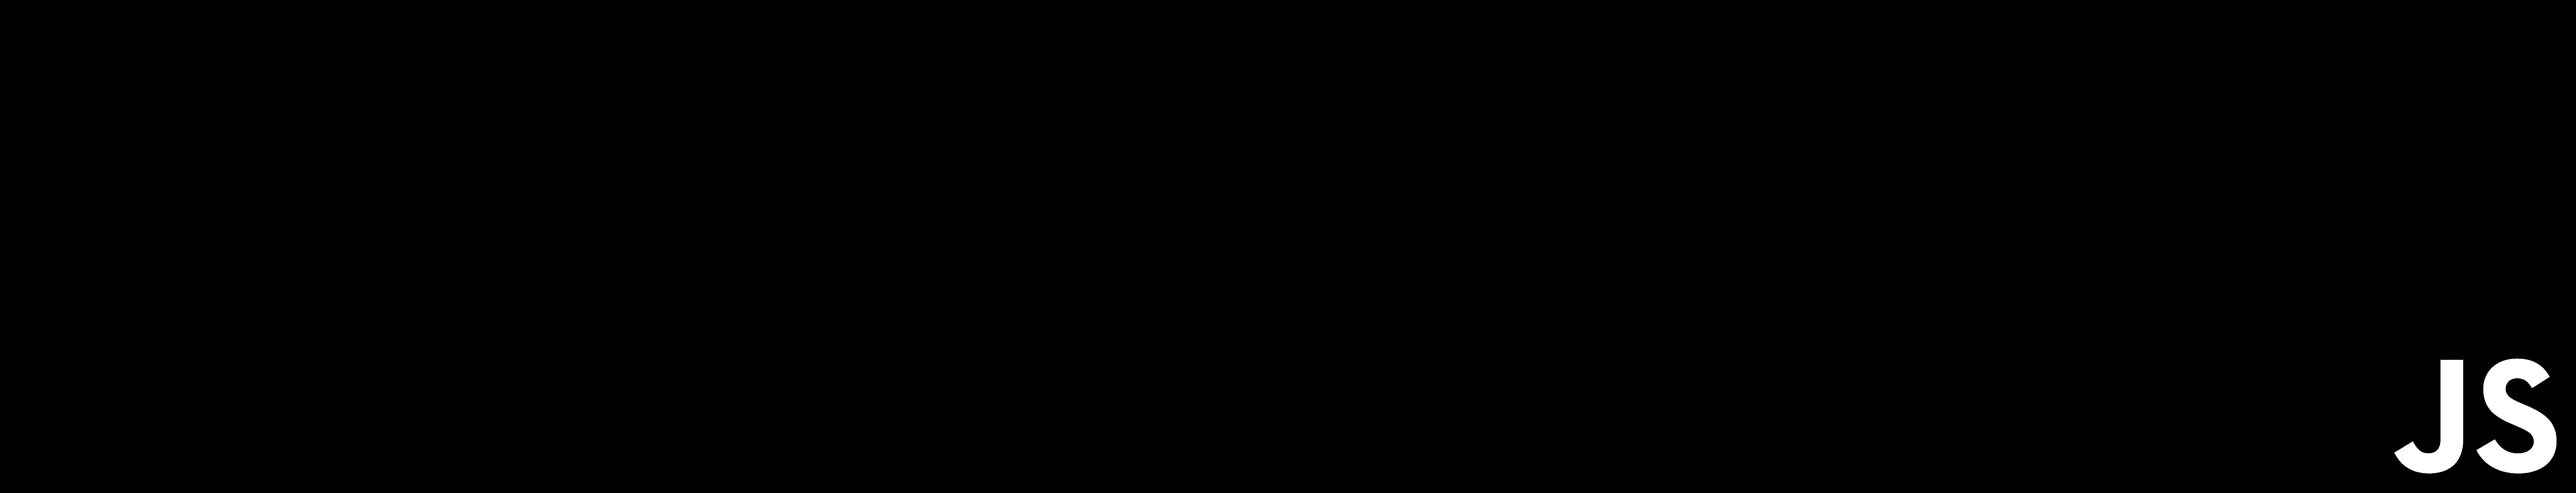
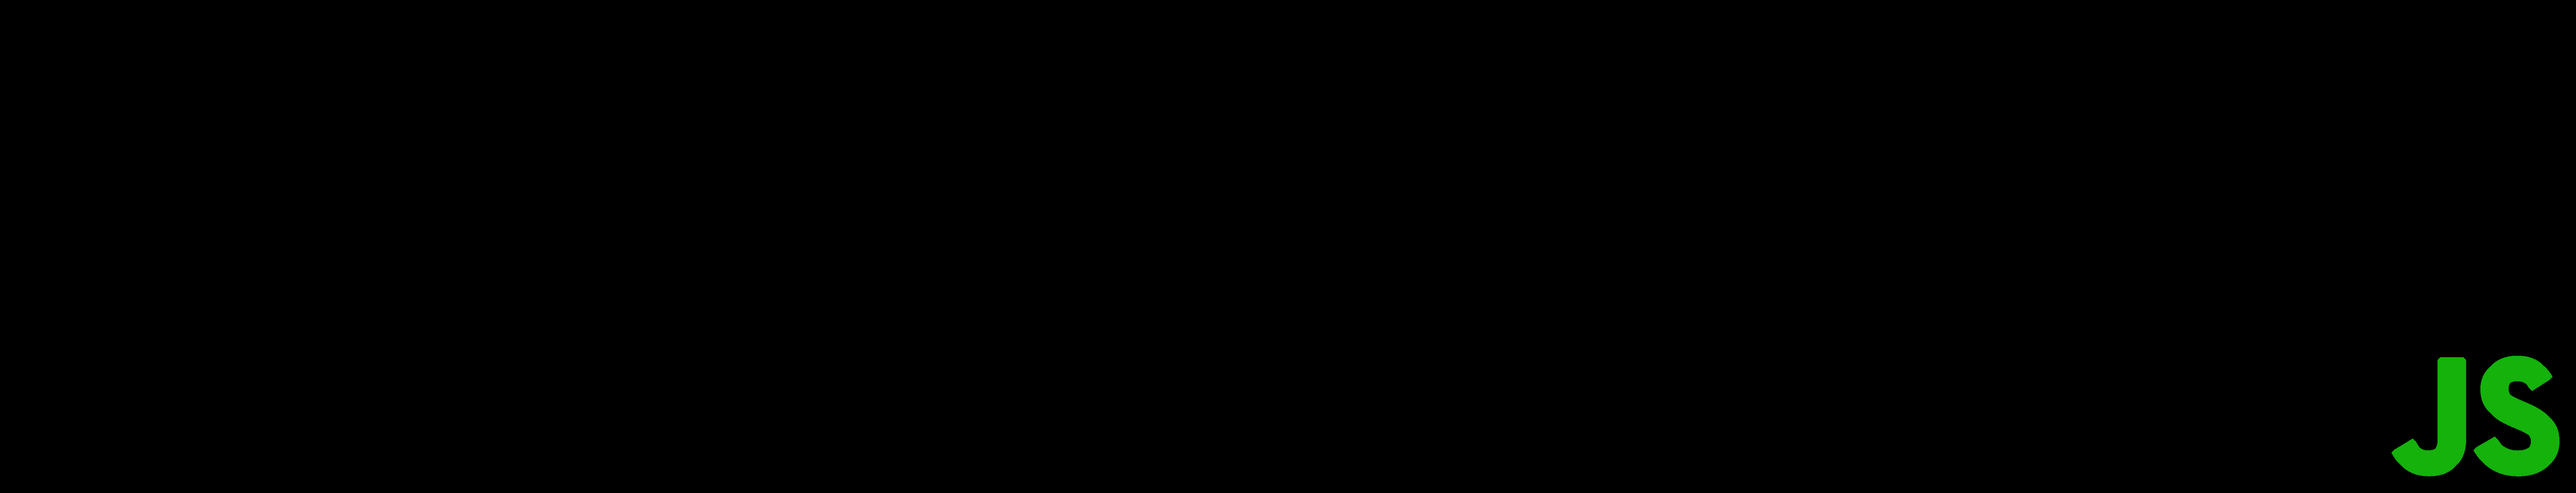
updated interface

Changed region(s): [[0.9036, 0.7188, 0.9971, 0.9688]]

diff --git a/index.html b/index.html
@@ -21,9 +21,9 @@
         <div class="container">
             <div class="row justify-content-center">
                 <div class="col-12 col-xl-10">
-                    <div class="jumbotron jumbotron-fluid text-center bg-header mx-5 rounded border border-light">
-                        <h1 class="display-4 text-light">Word Guess Game</h1>
-                        <p class="lead text-light font-italic">Javascript Style</p>
+                    <div class="jumbotron jumbotron-fluid text-center bg-header mx-1 rounded border border-light">
+                        <h1 class="display-4 text-bgreen font-mono">Word Guess Game</h1>
+                        <p class="lead text-bgreen font-italic font-slab">Programming</p>
                     </div>
                 </div>
             </div>
@@ -32,19 +32,27 @@
 
     <div class="container">
         <!-- Display Correct word and/or song -->
-        <div class="row justify-content-center">
+        <div class="row justify-content-center mx-5 d-none">
             <div class="col-12 col-xl-10">
-
+                <h1 class="text-center text-bgreen bg-black">Testing</h1>
             </div>
         </div>
 
         <!-- Display image and game mechanics-->
-        <div class="row justify-content-center">
-            <div class="col-6 col-xl-5">
-
+        <div class="row justify-content-center mx-5">
+            <div class="col-6 col-xl-5 bg-black rounded border border-light">
+                <img src="assets/images/body-background.jpg" class="img-fluid rounded px-5 py-4 d-block">
             </div>
-            <div class="col-6 col-xl-5">
-
+            <div class="col-6 col-xl-5 bg-black rounded border border-light px-3 py-3 font-mono text-center text-bgreen">
+                <h3 class="mb-4">Press Any Key to Get Started!</h3>
+                <h3>Wins</h3>
+                <h2 class="mb-4" id="score">12</h2>
+                <h3>Current Word</h3>
+                <h3 class="mb-4" id="cWord">_ _ _ _ _ _ _ _ _ _ _</h3>
+                <h3>Number of Guesses Remaining</h3>
+                <h2 class="mb-4" id="numGuesses">12</h2>
+                <h3>Letters Already Guessed</h3>
+                <h4 class="mb-5" id="alreadyGuessed"></h4>
             </div>
         </div>
     </div>

diff --git a/assets/javascript/game.js b/assets/javascript/game.js
@@ -1,0 +1,20 @@
+// Variables
+var wordList = ["javascript", "functions", "float", "arrays", "strings"];
+var answerChars = [];
+var wins = 0;
+
+
+function wordGuessGame() {
+    
+}
+
+// Page loadeed
+document.addEventListener("DOMContentLoaded", function(event) {
+    // On key press up
+    document.onkeyup = function(event) {
+
+
+        var letter = event.key.toLowerCase();
+
+    }
+});

diff --git a/assets/css/style.css b/assets/css/style.css
@@ -22,10 +22,18 @@ body {
     background-position: bottom right;
 }
 
-.jumbotron h1 {
+.font-mono {
     font-family: "Roboto Mono";
 }
 
-.jumbotron p {
+.font-slab {
     font-family: "Roboto Slab";
+}
+
+.bg-black {
+    background-color: black;
+}
+
+.text-bgreen {
+    color: rgb(22, 198, 12);
 }
